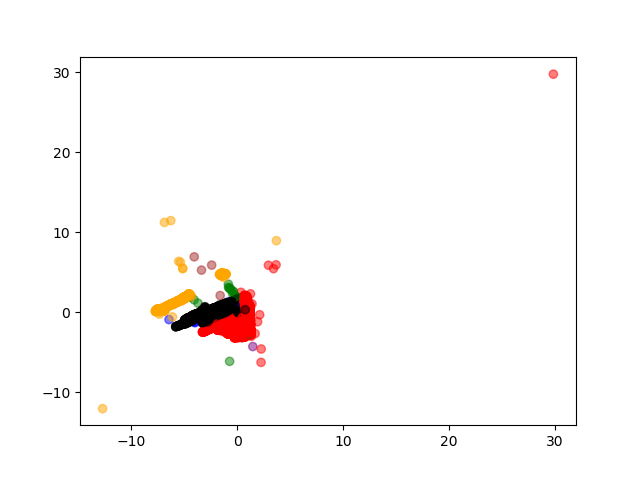
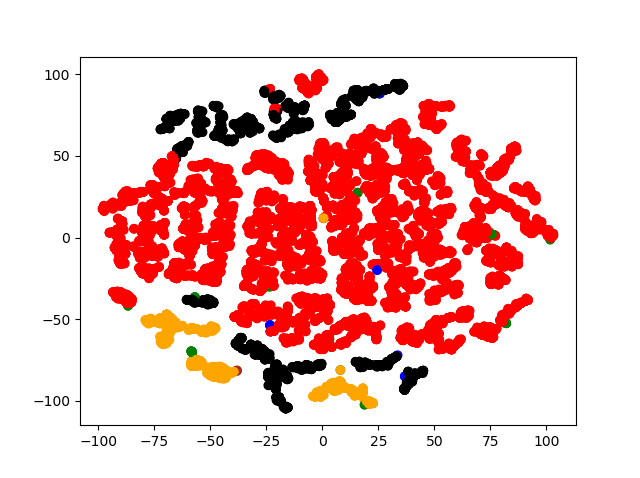
[K-menas] more results.

diff --git a/visualize.py b/visualize.py
@@ -39,16 +39,16 @@ def process():
     # Standardizing the features
     x = StandardScaler().fit_transform(x)
 
-    pca = PCA(n_components=2)
-    x_pca = pca.fit_transform(x)
-    plt.scatter(x_pca[:, 0], x_pca[:, 1], c=colors, alpha=0.5)
-    plt.show()
-
-
-    #tsne = TSNE(n_components=2)
-    #x_tsne = tsne.fit_transform(x)
-    #plt.scatter(x_tsne[:,0], x_tsne[:,1], c = colors)
+    #pca = PCA(n_components=2)
+    #x_pca = pca.fit_transform(x)
+    #plt.scatter(x_pca[:, 0], x_pca[:, 1], c=colors, alpha=0.5)
     #plt.show()
+
+
+    tsne = TSNE(n_components=2)
+    x_tsne = tsne.fit_transform(x)
+    plt.scatter(x_tsne[:,0], x_tsne[:,1], c = colors)
+    plt.show()
     print('Yes')
 
 if __name__ == '__main__':
